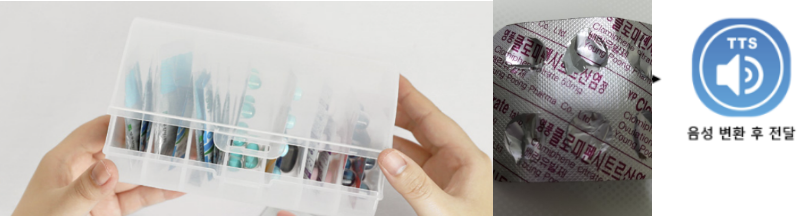
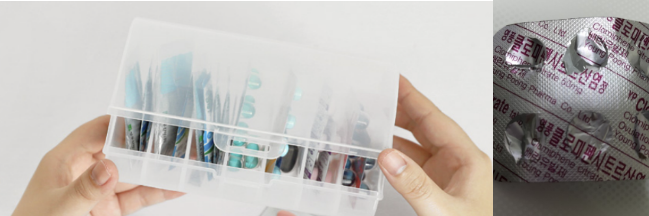
modify the image

diff --git a/README.md b/README.md
@@ -1,1 +1,74 @@
-# Dr.-Hong
+# [2023 대구를 빛내는 SW 해커톤] 
+
+![Header] (http://capsule-render.vercel.app/api?type=rect&color=auto&height=200&section=header&text=Team%20Dr.%20Yak&fontSize=80&animation=twinkling)
+
+## 1. 주제
+- 약박사: AI 기반 노년층 대상 Drug Assistant
+
+
+## 2. 핵심 내용
+- __핵심 내용__
+
+    - _**노년층**이 **약의 종류와 복용 방법** 등에 대한 정보를 쉽게 이해하고 접근할_ 수 있도록 도와줌
+
+    - __OCR(Optical Character Recognition)__ 모델과 __TTS(Text-To-Speak)__ 를 활용해 사용자는 약의 사진을 _카메라로 찍어 입력하고_, 해당 약에 대한 이름과 복용 방법에 대한 상세 정보를 획득 할 수 있음
+
+
+    - __기술 스택__
+
+        <a href="https://www.python.org/"><img src="https://img.shields.io/badge/python-3776AB?style=for-the-badge&logo=python&logoColor=white"></a> <a href="https://www.w3schools.com/html/"><img src="https://img.shields.io/badge/html5-E34F26?style=for-the-badge&logo=html5&logoColor=white"></a> <a href="https://javascript.info/"><img src="https://img.shields.io/badge/javascript-F7DF1E?style=for-the-badge&logo=javascript&logoColor=black"></a> <a href="https://flask-docs-kr.readthedocs.io/ko/latest/quickstart.html"><img src="https://img.shields.io/badge/flask-000000?style=for-the-badge&logo=flask&logoColor=white"></a> <a href="https://www.w3schools.com/css/"><img src="https://img.shields.io/badge/css-1572B6?style=for-the-badge&logo=css3&logoColor=white"></a>
+
+    - 예상 UI Prototype
+
+        <a href="./Images/figure1.png"><img src="./Images/figure1.png"></a>
+
+***
+
+- 기술 구현 및 기능 프로세스 설명
+
+    ### __Framework__
+
+    <a href="./Images/figure1.png"><img src="./Images/figure2.png"></a>
+
+    ### __Process__
+
+    1. 촬영된 사진을 OCR 인공지능 기술을 통해 뒷면의 모든 텍스트 인식
+
+    2. 인식된 텍스트 뭉치에서 Google Bard 자연어처리 모델을 이용해 약제 이름 추출
+
+    3. 약제 정보 데이터베이스에서 추출된 텍스트와 유사도가 높은 약제 검색
+
+    4. 데이터베이스에 있는 약의 이름, 복용 방법, 주의 사항을 TTS 기술을 통해 음성으로 안내
+
+    5. 수집된 이미지로 구축한 데이터셋을 통해 알약에 대한 분류기(Deep Learning based - Classification model) 학습
+
+
+
+## 3. 제안 배경
+1. **노령화 사회의 현실**
+
+    - 한국의 노령화: 2022년 기준 65세 이상 고령자 비율이 16% 이상
+
+    - 전 세계적인 노령화 추세: 2050년까지 65세 이상 인구가 2배 이상 증가 예상
+
+2. **노년층의 의약품 복용률**
+
+    - 노년층은 평균적으로 만성 질환 등으로 인해 여러 종류의 약을 먹는 경우가 많고, 이에 따라 약간의 혼동이나 잘못된 복용이 발생하기 쉬움
+
+3. **노년층의 의약품 인식 문제점**
+
+    - 의약품 포장의 _작은 글씨로 인한 정보 인식_ 어려움
+
+    - 또한, 노년층은 _디지털 정보에 접근하는 데 있어 장벽을 느낄 수_ 있어서 약에 대한 올바른 정보를 얻기 어려울 수 있음
+
+4. **알약 보관 방식**
+
+    - 주로 알약을 보관할 때 약에 대한 상세 정보를 포함하는 상자를 제외하고 은박 알약 포장 형태의 상태로 보관함
+
+    - 해당 보관함에 담은 상태로 알약이 어떤 기능을 위한 것인지 헷갈리는 상황이 생김
+
+
+    ### 보관 방식의 예시
+    <a href="./Images/figure3.png"><img src="./Images/figure3.png"></a>
+
+    
